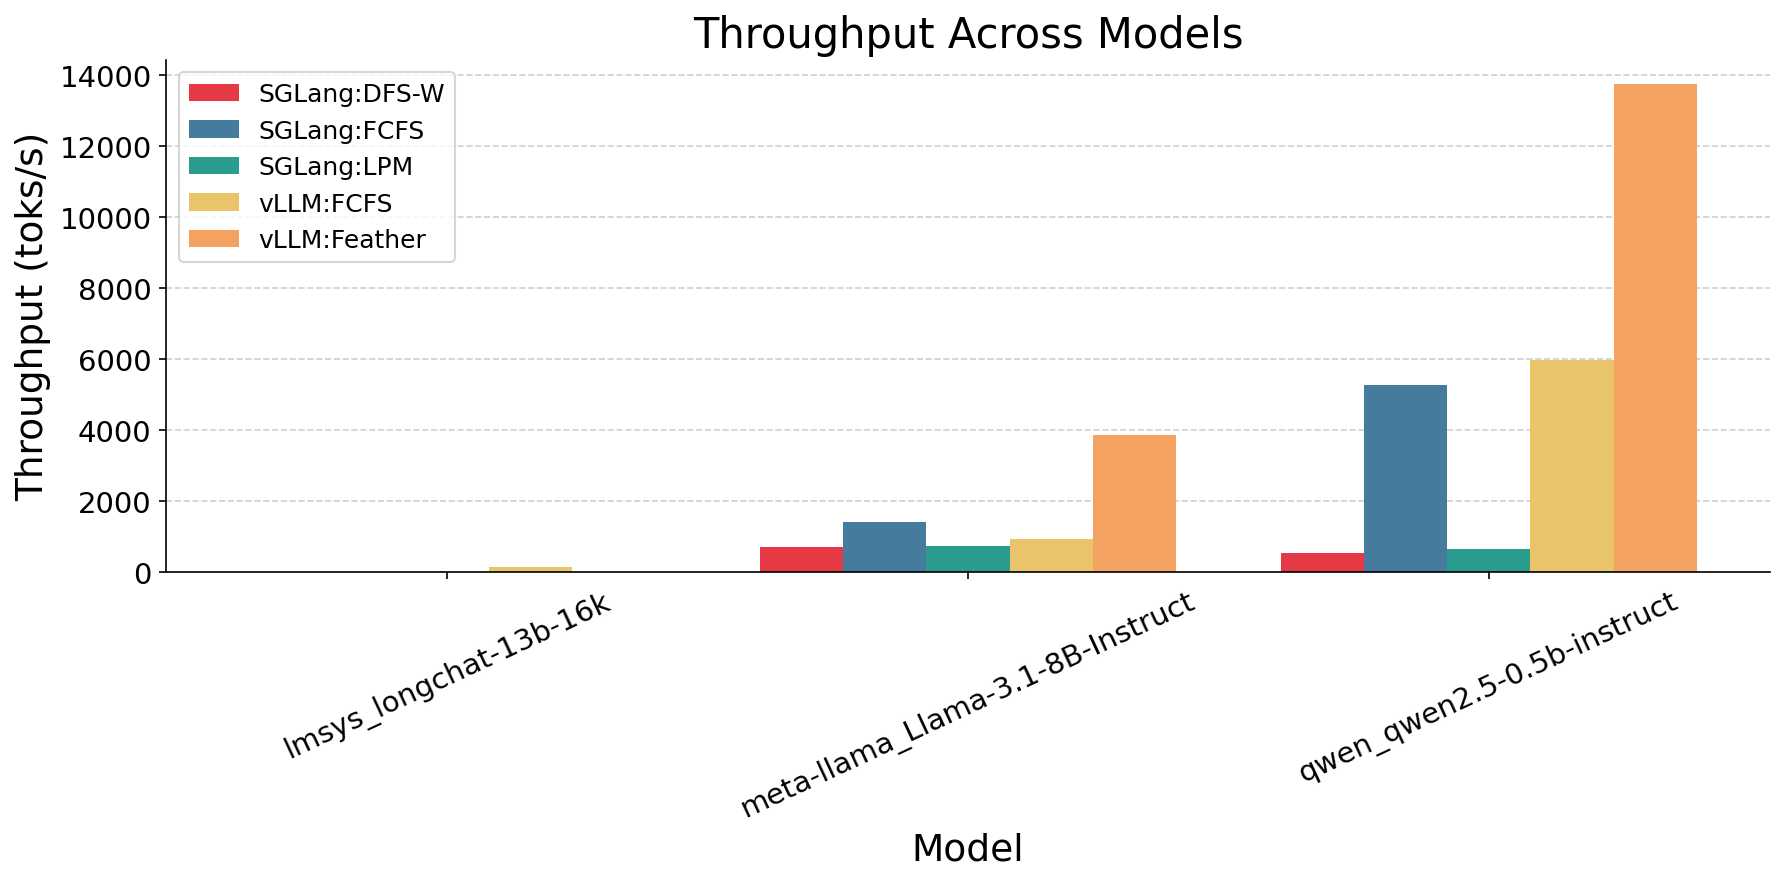
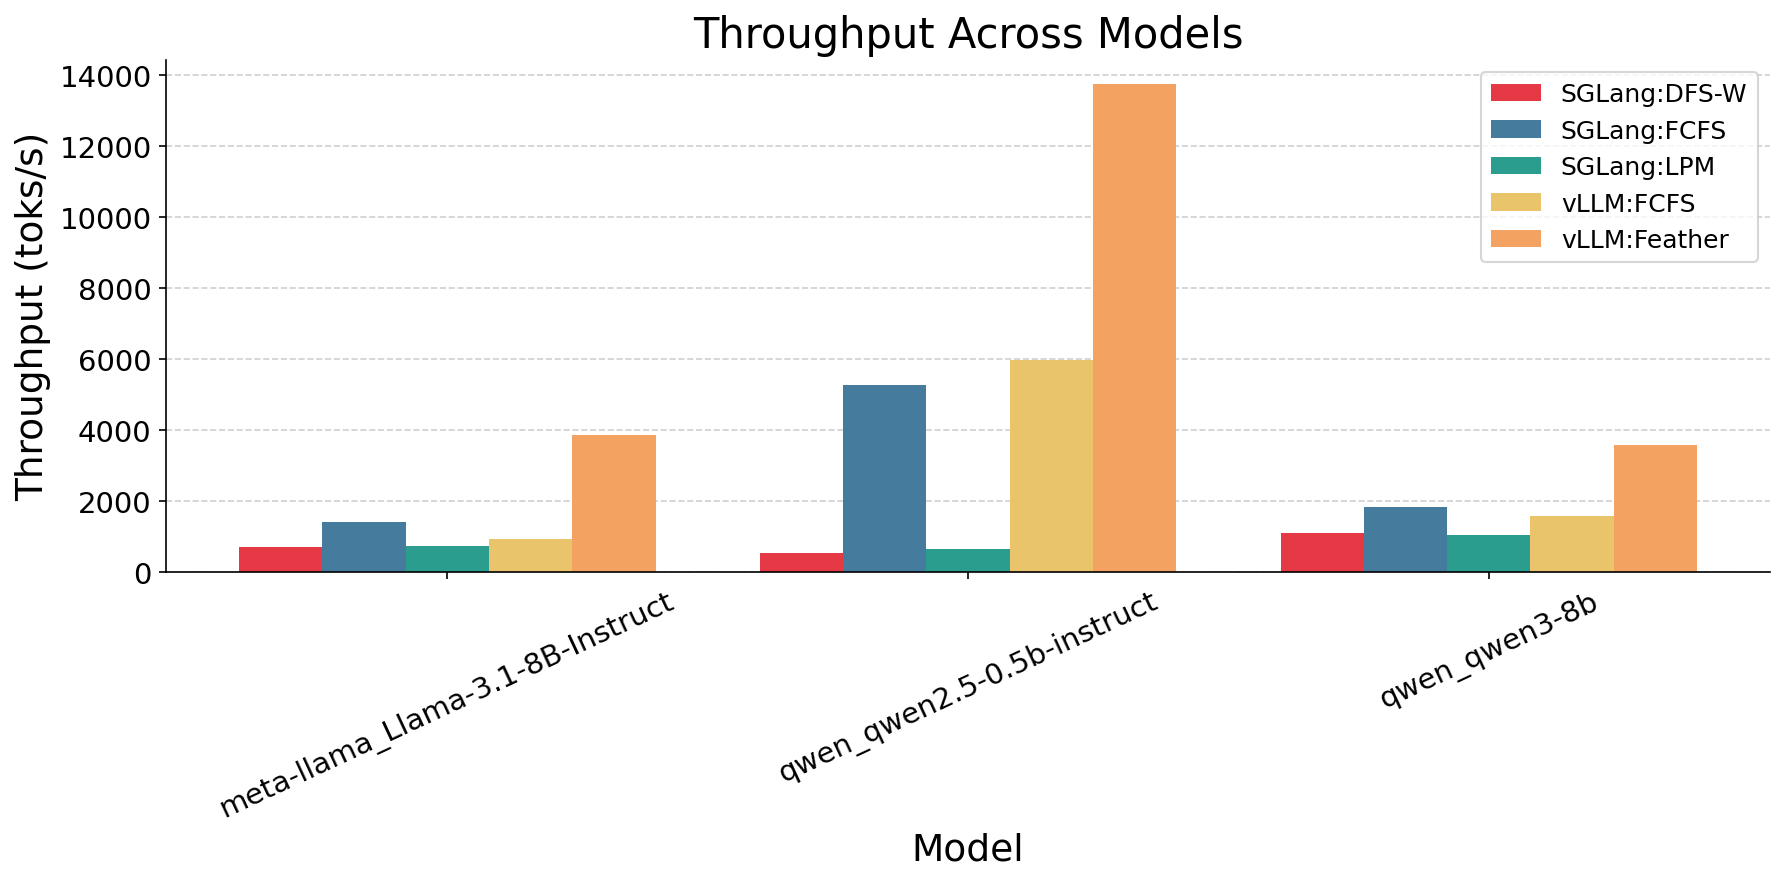
across models

diff --git a/code/vllm/vllm_local_backup/vllm/v1/core/sched/request_queue.py b/code/vllm/vllm_local_backup/vllm/v1/core/sched/request_queue.py
@@ -393,14 +393,13 @@ class ChunkedHashTreeRequestQueue(RequestQueue):
         if rid is not None:
             self._id_to_request.pop(rid, None)
 
-    # -----------------------------
-    # Required RequestQueue API
-    # -----------------------------
+    @log_cycles
     def add_request(self, request: Request) -> None:
         rid = self._intern_id(request.request_id)
         self._radix.insert(rid, request.all_token_ids)
         self._pending_requests[request.request_id] = request
 
+    @log_cycles
     def pop_request(self) -> Request:
         rid, cost = self._radix.find_best_request()
         if rid == 0:
@@ -412,6 +411,7 @@ class ChunkedHashTreeRequestQueue(RequestQueue):
         self._radix.activate_request(rid)
         return request
 
+    @log_cycles
     def peek_request(self) -> Request:
         rid, _ = self._radix.find_best_request()
         if rid == 0:
@@ -456,6 +456,7 @@ class ChunkedHashTreeRequestQueue(RequestQueue):
         for request_id in reversed(list(self._pending_requests.keys())):
             yield self._pending_requests[request_id]
 
+    @log_cycles
     def free_request(self, request: Request) -> None:
         request_id = request.request_id
         rid = self._id_map.get(request_id)
@@ -463,6 +464,7 @@ class ChunkedHashTreeRequestQueue(RequestQueue):
             self._radix.finish_request(rid)
             self._release_id(request_id)
 
+    @log_cycles
     def should_add_more_to_batch(self, **kwargs) -> bool:
         current_batch_size = kwargs.get("current_batch_size", 0)
         if current_batch_size == 0:
@@ -603,11 +605,13 @@ class RadixCostRequestQueue_RL(RequestQueue):
         if rid is not None:
             self._id_to_request.pop(rid, None)
 
+    @log_cycles
     def add_request(self, request: Request) -> None:
         rid = self._intern_id(request.request_id)
         self._radix.insert(rid, request.all_token_ids)
         self._pending_requests[request.request_id] = request
 
+    @log_cycles
     def pop_request(self) -> Request:
         rid, _, _, _ = self._radix.find_best_request()
         if rid == 0:
@@ -617,6 +621,7 @@ class RadixCostRequestQueue_RL(RequestQueue):
         self._radix.activate_request(rid)
         return request
 
+    @log_cycles
     def peek_request(self) -> Request:
         rid, _, _, _ = self._radix.find_best_request()
         if rid == 0:
@@ -658,6 +663,7 @@ class RadixCostRequestQueue_RL(RequestQueue):
         for request_id in reversed(list(self._pending_requests.keys())):
             yield self._pending_requests[request_id]
 
+    @log_cycles
     def free_request(self, request: Request) -> None:
         request_id = request.request_id
         rid = self._id_map.get(request_id)
@@ -665,7 +671,7 @@ class RadixCostRequestQueue_RL(RequestQueue):
             self._radix.finish_request(rid)
             self._release_id(request_id)
 
-
+    @log_cycles
     def should_add_more_to_batch(self, **kwargs) -> bool:
         current_batch_size = kwargs.get("current_batch_size", 0)
         last_batch_time    = kwargs.get("last_batch_time", 0.0)
@@ -826,7 +832,7 @@ class FamilyLoadRequestQueue(RequestQueue):
         self.family_requests: dict[int, deque[Request]] = {}
         self.last_served_family: int = 0
 
-    # @log_cycles
+    @log_cycles
     def add_request(self, request: Request) -> None:
         family_id = request.all_token_ids[26]
         # family id should be hash of the first 50 tokens
@@ -835,7 +841,7 @@ class FamilyLoadRequestQueue(RequestQueue):
             self.family_requests[family_id] = deque()
         self.family_requests[family_id].append(request)
 
-    # @log_cycles
+    @log_cycles
     def pop_request(self) -> Request:
         if self.last_served_family not in self.family_requests or not self.family_requests[self.last_served_family]:
             available_families = [fid for fid in self.family_requests if self.family_requests[fid]]
@@ -843,14 +849,13 @@ class FamilyLoadRequestQueue(RequestQueue):
         request = self.family_requests[self.last_served_family].popleft()
         return request
 
-    # @log_cycles
+    @log_cycles
     def peek_request(self) -> Request:
         if self.last_served_family not in self.family_requests or not self.family_requests[self.last_served_family]:
             available_families = [fid for fid in self.family_requests if self.family_requests[fid]]
             self.last_served_family = min(available_families)
         return self.family_requests[self.last_served_family][0]
 
-    # @log_cycles
     def prepend_request(self, request: Request) -> None:
         # family_id = request.all_token_ids[26]
         family_id = hash(tuple(request.all_token_ids[:50]))
@@ -858,18 +863,15 @@ class FamilyLoadRequestQueue(RequestQueue):
             self.family_requests[family_id] = deque()
         self.family_requests[family_id].appendleft(request)
     
-    # @log_cycles
     def prepend_requests(self, requests: RequestQueue) -> None:
         for request in requests:
             self.prepend_request(request)
     
-    # @log_cycles
     def remove_request(self, request: Request) -> None:
         family_id = request.all_token_ids[3]
         if family_id in self.family_requests:
             self.family_requests[family_id].remove(request)
     
-    # @log_cycles
     def remove_requests(self, requests: Iterable[Request]) -> None:
         for request in requests:
             self.remove_request(request)
@@ -890,7 +892,7 @@ class FamilyLoadRequestQueue(RequestQueue):
             for request in reversed(self.family_requests[fid]):
                 yield request
 
-    # @log_cycles
+    @log_cycles
     def should_add_more_to_batch(self, **kwargs) -> bool:
         current_batch_size = kwargs.get("current_batch_size", 0)
         if current_batch_size == 0:

diff --git a/code/vllm/vllm_local_backup/vllm/v1/core/sched/chunked_hash_tree_rl.cpp b/code/vllm/vllm_local_backup/vllm/v1/core/sched/chunked_hash_tree_rl.cpp
@@ -2,6 +2,74 @@
 #include <xxhash.h>
 #include <algorithm>
 #include <iostream>
+#include <chrono>
+
+// ── Timing infrastructure ────────────────────────────────────────────────────
+
+struct FunctionStats {
+    uint64_t total_ns   = 0;
+    uint64_t call_count = 0;
+};
+
+struct ChunkedHashTree_RL_Stats {
+    FunctionStats insert;
+    FunctionStats find_best_request;
+    FunctionStats activate;
+    FunctionStats finish;
+    // Add more as you instrument other functions
+
+    uint64_t update_count = 0;   // total "updates" across all functions
+
+    void log() const {
+        std::cout << "[ChunkedHashTree_RL] === Stats after "
+                  << update_count << " updates ===\n";
+
+        auto report = [](const char* name, const FunctionStats& s) {
+            if (s.call_count == 0) return;
+            std::cout << "  " << name
+                      << "  calls=" << s.call_count
+                      << "  total_ns=" << s.total_ns
+                      << "  avg_ns=" << s.total_ns / s.call_count
+                      << '\n';
+        };
+
+        report("insert              ", insert);
+        report("find_best_request      ", find_best_request);
+        report("activate", activate);
+        report("finish", finish);
+        std::cout << std::flush;
+    }
+};
+
+// One instance per ChunkedHashTree_RL object (or make it static/global if preferred)
+static ChunkedHashTree_RL_Stats g_stats;
+
+// RAII timer: records elapsed ns into a FunctionStats slot and bumps update_count
+struct ScopedTimer {
+    using Clock = std::chrono::high_resolution_clock;
+
+    FunctionStats&          slot;
+    ChunkedHashTree_RL_Stats& stats;
+    Clock::time_point       start;
+
+    ScopedTimer(FunctionStats& slot_, ChunkedHashTree_RL_Stats& stats_)
+        : slot(slot_), stats(stats_), start(Clock::now()) {}
+
+    ~ScopedTimer() {
+        uint64_t ns = static_cast<uint64_t>(
+            std::chrono::duration_cast<std::chrono::nanoseconds>(
+                Clock::now() - start).count());
+        slot.total_ns   += ns;
+        slot.call_count += 1;
+        stats.update_count += 1;
+        if (stats.update_count % 100 == 0)
+            stats.log();
+    }
+};
+
+// Convenience macro so call sites stay one-liners
+#define TIME_FN(slot_name) \
+    ScopedTimer _timer_(g_stats.slot_name, g_stats)
 
 ChunkedHashTree_RL::ChunkedHashTree_RL(uint32_t chunk) 
     : chunk_size(chunk), cache_valid(false), shared_chain_length(0)
@@ -254,6 +322,7 @@ ChunkedHashTree_RL::compute_hashes(const std::vector<uint32_t>& tokens)
 
 uint32_t ChunkedHashTree_RL::insert(uint32_t request_id, const std::vector<uint32_t>& tokens)
 {
+    TIME_FN(insert);
     if (request_hashes.count(request_id)) {
         return 0;
     }
@@ -287,6 +356,7 @@ std::tuple<uint32_t, uint32_t, uint32_t, uint32_t> ChunkedHashTree_RL::find_best
     //       << " missing_cache size: " << missing_cache.size()
     //       << std::endl;
     // std::cout << "inside chunked_hash_tree_rl --> find_best_request()" << std::endl;
+    TIME_FN(find_best_request);
     if (cache_valid && cached_best_request.has_value()) {
         return cached_best_request.value();
     }
@@ -340,6 +410,7 @@ std::tuple<uint32_t, uint32_t, uint32_t, uint32_t> ChunkedHashTree_RL::find_best
 std::pair<uint32_t, uint32_t>
 ChunkedHashTree_RL::activate_request(uint32_t request_id) 
 {
+    TIME_FN(activate);
     if (active_requests.count(request_id)) {
         return {0, 0};
     }
@@ -413,6 +484,7 @@ void ChunkedHashTree_RL::remove(uint32_t request_id) {
 
 std::pair<uint32_t, uint32_t>
 ChunkedHashTree_RL::finish_request(uint32_t request_id) {
+    TIME_FN(finish);
     if (!active_requests.erase(request_id)) {
         return {0, 0};
     }

diff --git a/code/vllm/models_logs/plot.py b/code/vllm/models_logs/plot.py
@@ -32,7 +32,7 @@ RE_FILENAME = re.compile(
     r"^(?P<engine>vllm|sglang)_(?P<policy>.+?)_(?P<model>"
     r"qwen_qwen2\.5-0\.5b-instruct|"
     r"meta-llama_Llama-3\.1-8B-Instruct|"
-    r"lmsys_longchat-13b-16k"
+    r"qwen_qwen3-8b"
     r")_req\d+"
 )
 
@@ -120,6 +120,8 @@ for path in log_files:
     if policy == "fcfs":
         policy = "FCFS"
     if policy == "chunked_hash_tree_bandit":
+        policy = "Feather"
+    if policy == "family_load":
         policy = "Feather"
     if policy == "chunked_hash_tree_heuristic":
         continue
